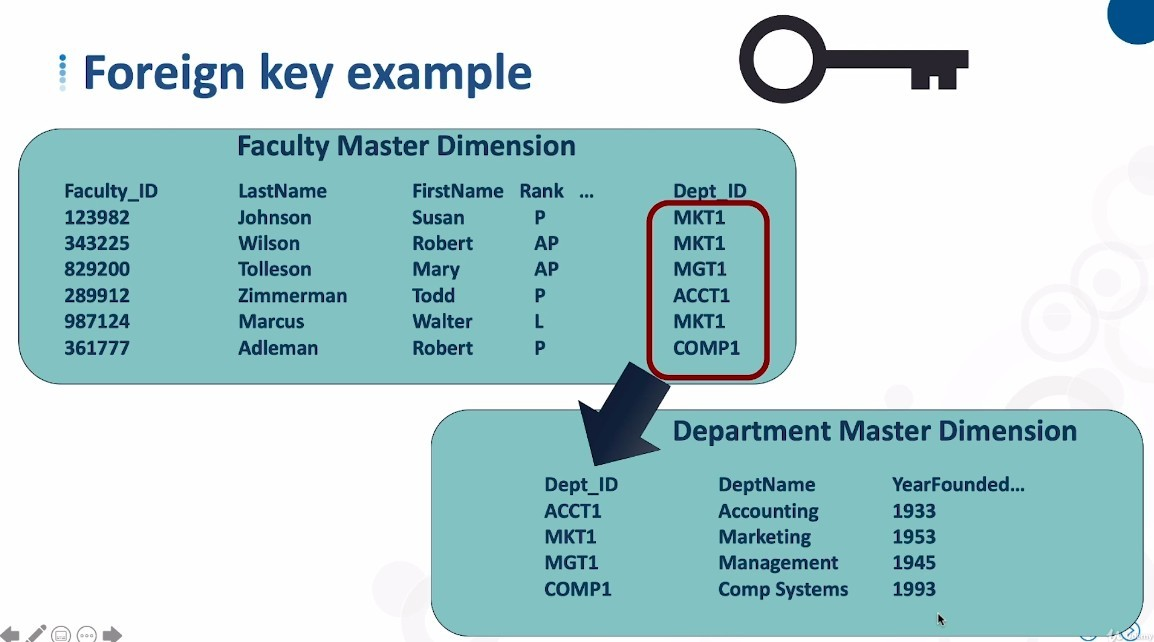
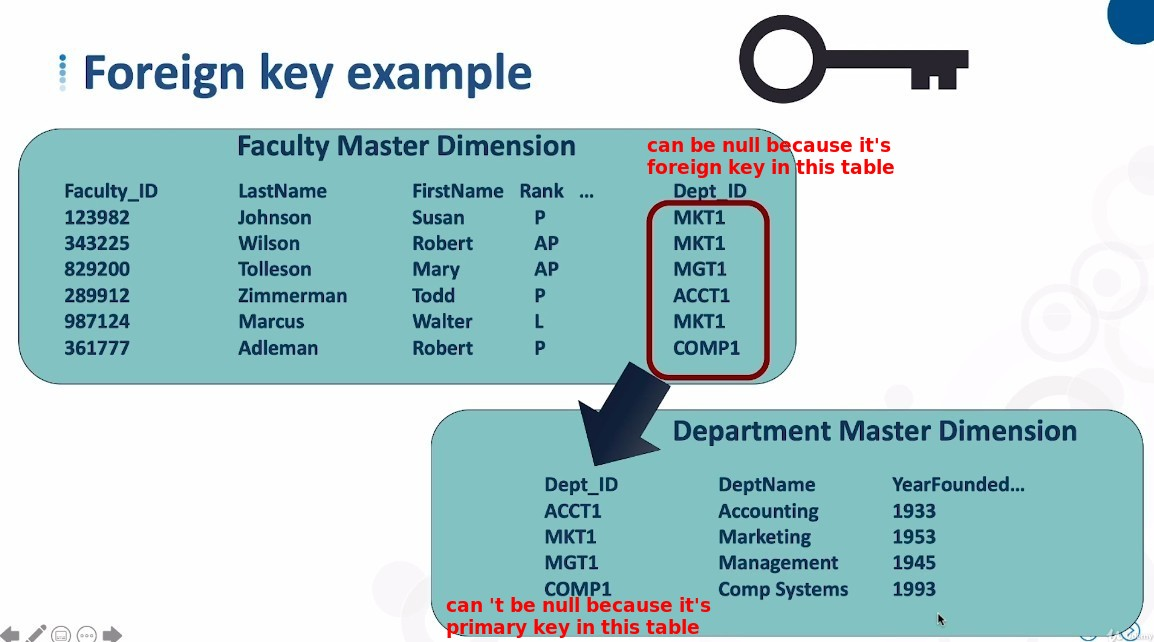
qq

Changed region(s): [[0.3744, 0.9346, 0.6239, 0.9969], [0.5615, 0.2181, 0.7799, 0.2804]]

diff --git a/5-build-blocks/34-database-keys-for-dw/memo.md b/5-build-blocks/34-database-keys-for-dw/memo.md
@@ -22,11 +22,19 @@
 
 ## **Data Warehousing Key Types**
 
+![Alt natural vs surrogate](pic/15.jpg)
+
 ### _Natural key_
+
+> A key that is generated from a data source and not from the Data Warehouse is called a natural key.
+
+**Might be cryptic or understandable**
 
 ![Alt natural keys (might be cryptic)](pic/08.jpg)
 
 ![Alt natural keys (might be understandable)](pic/09.jpg)
+
+**But the point is**
 
 ![Alt natural keys travel](pic/10.jpg)
 
@@ -34,10 +42,15 @@
 
 ![Alt best practice: use surrogate key to relate data cross tables](pic/11.jpg)
 
+- Note that the point is to use the surrogate key to relate between different tables, not to say that every table must have a surrogate key.
+
 ![Alt surrogate key](pic/12.jpg)
 
 ![Alt surrogate key example](pic/13.jpg)
 
 ## **Whether to discard the natural key**
 
+> Since it is recommended to use surrogate key to do relate, does the natural key from the data source still need to stay in Data Warehouse?
+
 ![Alt data warehousing and natural keys](pic/14.jpg)
+
